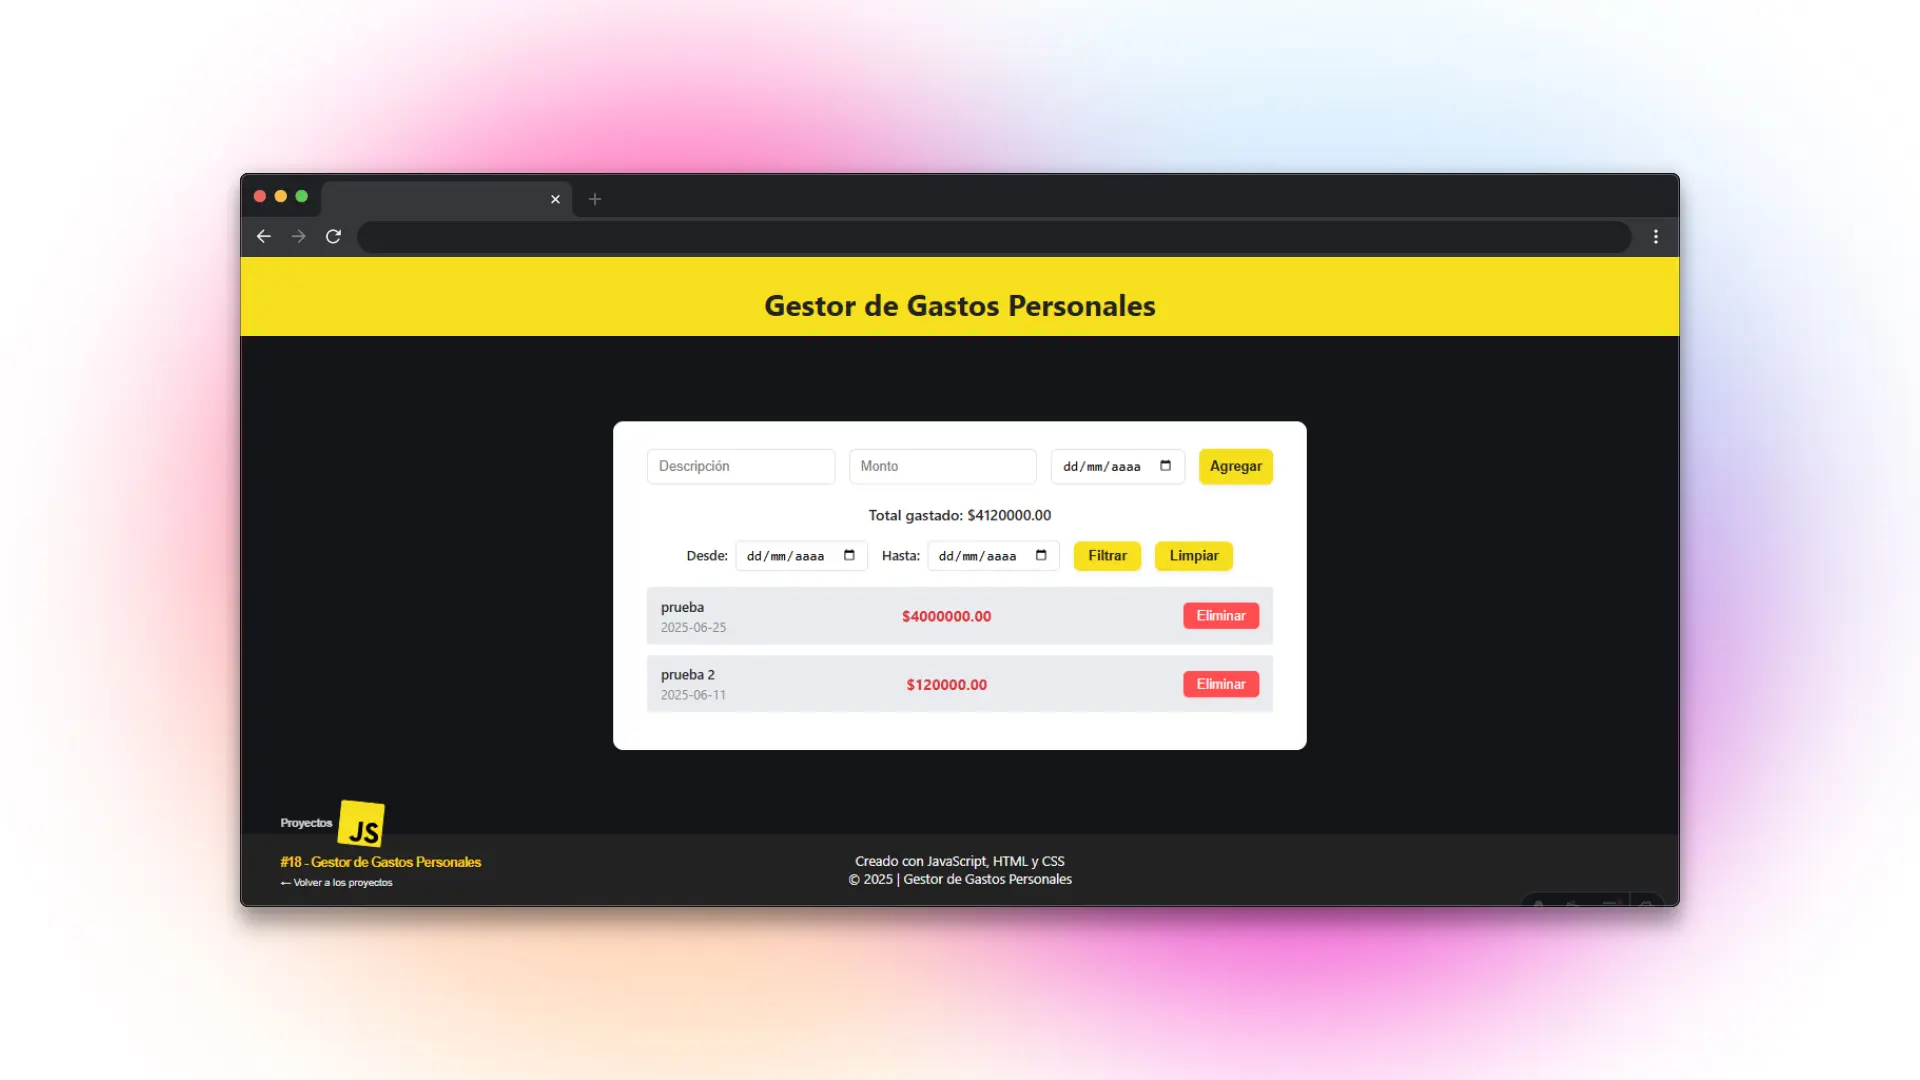
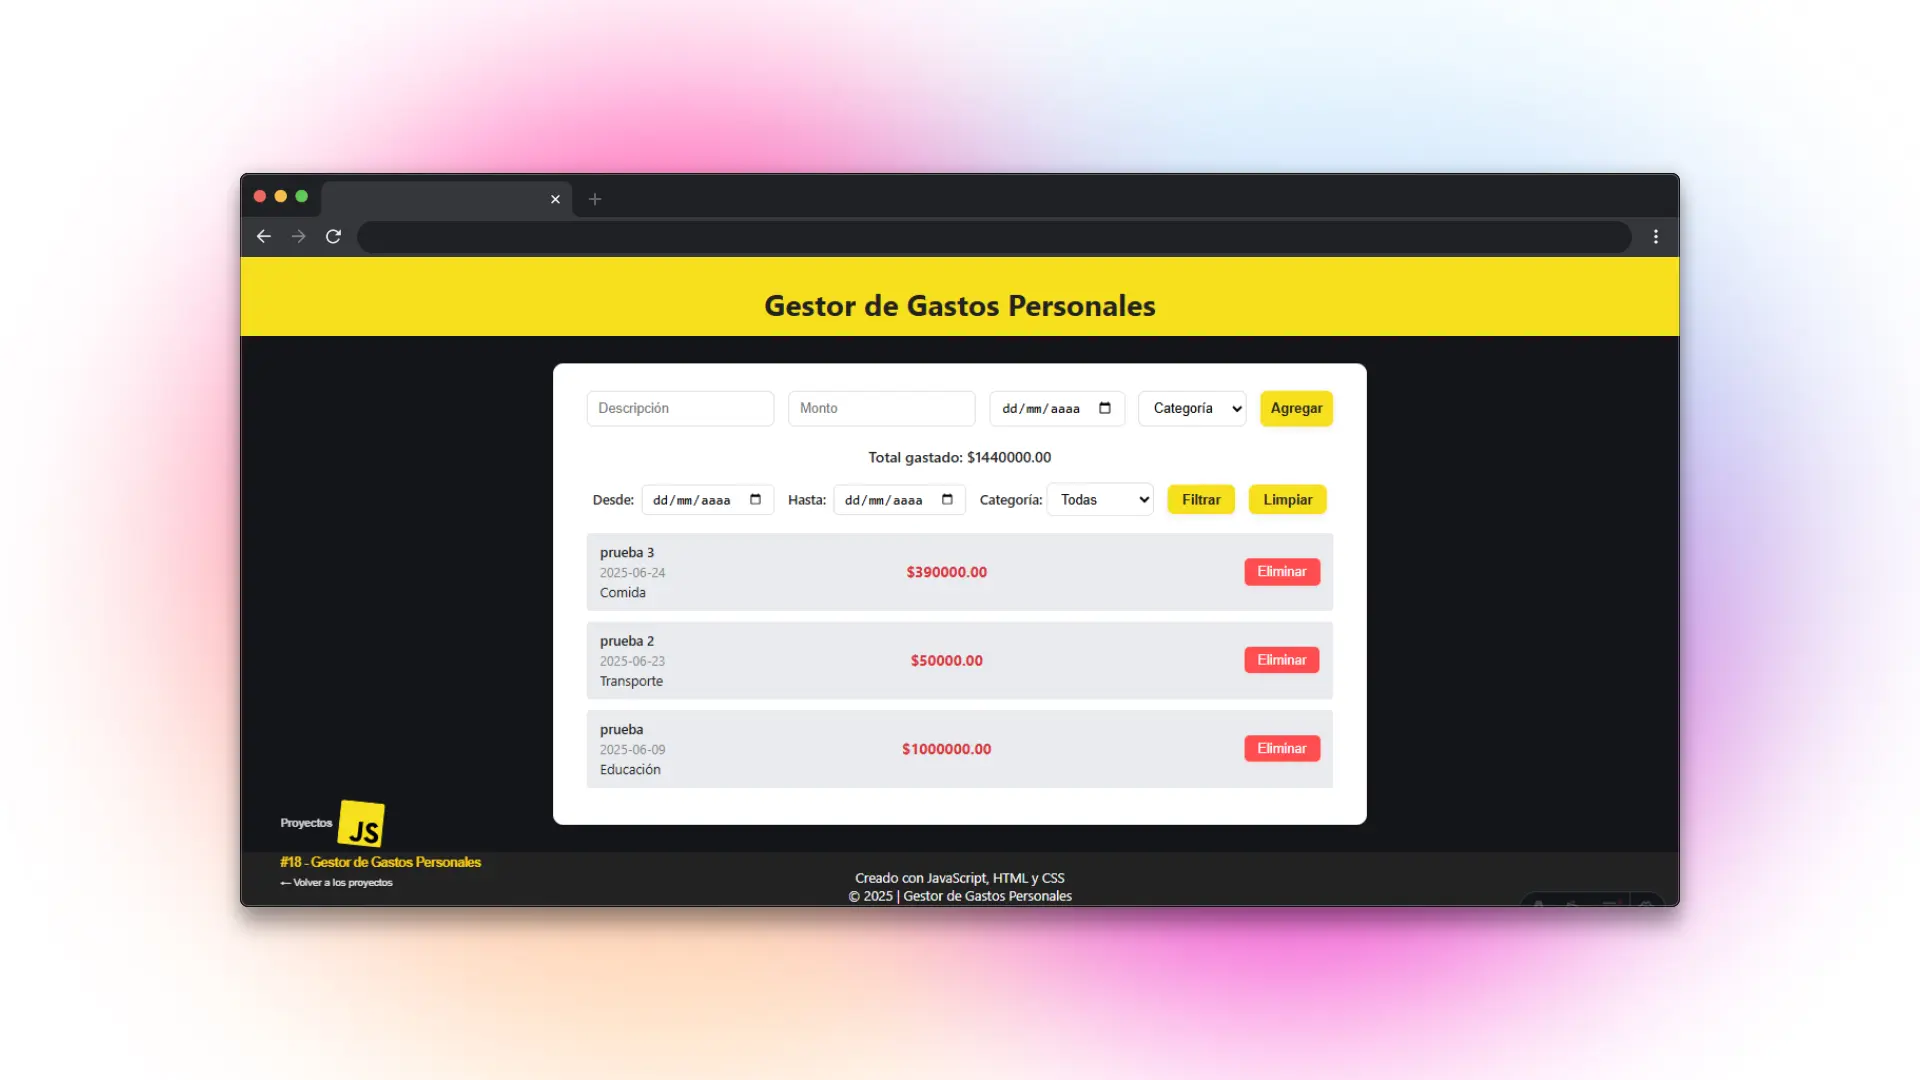
feat(expense-tracker): add category selection to expense form and filtering options

Changed region(s): [[0.2812, 0.3361, 0.7188, 0.7639], [0.4375, 0.7944, 0.5625, 0.8556], [0.1562, 0.7944, 0.1875, 0.825]]

diff --git a/00-web/public/projects/18-expense-tracker/script.js b/00-web/public/projects/18-expense-tracker/script.js
@@ -9,6 +9,7 @@ const totalAmount = document.getElementById('total-amount');
 let expenses = JSON.parse(localStorage.getItem('expenses') || '[]');
 let filterFrom = '';
 let filterTo = '';
+let filterCategory = '';
 
 function renderExpenses() {
   expenseList.innerHTML = '';
@@ -16,6 +17,7 @@ function renderExpenses() {
   let filtered = expenses.filter(exp => {
     if (filterFrom && exp.date < filterFrom) return false;
     if (filterTo && exp.date > filterTo) return false;
+    if (filterCategory && exp.category !== filterCategory) return false;
     return true;
   });
   filtered.forEach((exp, idx) => {
@@ -26,6 +28,7 @@ function renderExpenses() {
       <div class="expense-info">
         <span class="expense-name">${exp.name}</span>
         <span class="expense-date">${exp.date}</span>
+        <span class="expense-category">${exp.category || ''}</span>
       </div>
       <span class="expense-amount">$${parseFloat(exp.amount).toFixed(2)}</span>
       <button class="delete-btn">Eliminar</button>
@@ -42,28 +45,32 @@ function deleteExpense(idx) {
   renderExpenses();
 }
 
-expenseForm.onsubmit = (e) => {
-  e.preventDefault();
-  const name = expenseName.value.trim();
-  const amount = expenseAmount.value;
-  const date = expenseDate.value;
-  if (!name || !amount || !date) return;
-  expenses.push({ name, amount, date });
-  localStorage.setItem('expenses', JSON.stringify(expenses));
-  expenseForm.reset();
-  renderExpenses();
-};
-
 document.getElementById('filter-btn').onclick = () => {
   filterFrom = document.getElementById('filter-from').value;
   filterTo = document.getElementById('filter-to').value;
+  filterCategory = document.getElementById('filter-category').value;
   renderExpenses();
 };
 document.getElementById('clear-filter-btn').onclick = () => {
   filterFrom = '';
   filterTo = '';
+  filterCategory = '';
   document.getElementById('filter-from').value = '';
   document.getElementById('filter-to').value = '';
+  document.getElementById('filter-category').value = '';
+  renderExpenses();
+};
+
+expenseForm.onsubmit = (e) => {
+  e.preventDefault();
+  const name = expenseName.value.trim();
+  const amount = expenseAmount.value;
+  const date = expenseDate.value;
+  const category = document.getElementById('expense-category').value;
+  if (!name || !amount || !date || !category) return;
+  expenses.push({ name, amount, date, category });
+  localStorage.setItem('expenses', JSON.stringify(expenses));
+  expenseForm.reset();
   renderExpenses();
 };
 

diff --git a/18-expense-tracker/script.js b/18-expense-tracker/script.js
@@ -9,6 +9,7 @@ const totalAmount = document.getElementById('total-amount');
 let expenses = JSON.parse(localStorage.getItem('expenses') || '[]');
 let filterFrom = '';
 let filterTo = '';
+let filterCategory = '';
 
 function renderExpenses() {
   expenseList.innerHTML = '';
@@ -16,6 +17,7 @@ function renderExpenses() {
   let filtered = expenses.filter(exp => {
     if (filterFrom && exp.date < filterFrom) return false;
     if (filterTo && exp.date > filterTo) return false;
+    if (filterCategory && exp.category !== filterCategory) return false;
     return true;
   });
   filtered.forEach((exp, idx) => {
@@ -26,6 +28,7 @@ function renderExpenses() {
       <div class="expense-info">
         <span class="expense-name">${exp.name}</span>
         <span class="expense-date">${exp.date}</span>
+        <span class="expense-category">${exp.category || ''}</span>
       </div>
       <span class="expense-amount">$${parseFloat(exp.amount).toFixed(2)}</span>
       <button class="delete-btn">Eliminar</button>
@@ -42,28 +45,32 @@ function deleteExpense(idx) {
   renderExpenses();
 }
 
-expenseForm.onsubmit = (e) => {
-  e.preventDefault();
-  const name = expenseName.value.trim();
-  const amount = expenseAmount.value;
-  const date = expenseDate.value;
-  if (!name || !amount || !date) return;
-  expenses.push({ name, amount, date });
-  localStorage.setItem('expenses', JSON.stringify(expenses));
-  expenseForm.reset();
-  renderExpenses();
-};
-
 document.getElementById('filter-btn').onclick = () => {
   filterFrom = document.getElementById('filter-from').value;
   filterTo = document.getElementById('filter-to').value;
+  filterCategory = document.getElementById('filter-category').value;
   renderExpenses();
 };
 document.getElementById('clear-filter-btn').onclick = () => {
   filterFrom = '';
   filterTo = '';
+  filterCategory = '';
   document.getElementById('filter-from').value = '';
   document.getElementById('filter-to').value = '';
+  document.getElementById('filter-category').value = '';
+  renderExpenses();
+};
+
+expenseForm.onsubmit = (e) => {
+  e.preventDefault();
+  const name = expenseName.value.trim();
+  const amount = expenseAmount.value;
+  const date = expenseDate.value;
+  const category = document.getElementById('expense-category').value;
+  if (!name || !amount || !date || !category) return;
+  expenses.push({ name, amount, date, category });
+  localStorage.setItem('expenses', JSON.stringify(expenses));
+  expenseForm.reset();
   renderExpenses();
 };
 

diff --git a/00-web/public/projects/18-expense-tracker/index.html b/00-web/public/projects/18-expense-tracker/index.html
@@ -17,6 +17,15 @@
         <input type="text" id="expense-name" placeholder="Descripción" required>
         <input type="number" id="expense-amount" placeholder="Monto" min="0.01" step="0.01" required>
         <input type="date" id="expense-date" required>
+        <select id="expense-category" required>
+          <option value="">Categoría</option>
+          <option value="Comida">Comida</option>
+          <option value="Transporte">Transporte</option>
+          <option value="Ocio">Ocio</option>
+          <option value="Salud">Salud</option>
+          <option value="Educación">Educación</option>
+          <option value="Otros">Otros</option>
+        </select>
         <button type="submit">Agregar</button>
       </form>
       <div class="summary">
@@ -25,6 +34,17 @@
       <div class="filter-bar">
         <label>Desde: <input type="date" id="filter-from"></label>
         <label>Hasta: <input type="date" id="filter-to"></label>
+        <label>Categoría:
+          <select id="filter-category">
+            <option value="">Todas</option>
+            <option value="Comida">Comida</option>
+            <option value="Transporte">Transporte</option>
+            <option value="Ocio">Ocio</option>
+            <option value="Salud">Salud</option>
+            <option value="Educación">Educación</option>
+            <option value="Otros">Otros</option>
+          </select>
+        </label>
         <button type="button" id="filter-btn">Filtrar</button>
         <button type="button" id="clear-filter-btn">Limpiar</button>
       </div>

diff --git a/18-expense-tracker/index.html b/18-expense-tracker/index.html
@@ -17,6 +17,15 @@
         <input type="text" id="expense-name" placeholder="Descripción" required>
         <input type="number" id="expense-amount" placeholder="Monto" min="0.01" step="0.01" required>
         <input type="date" id="expense-date" required>
+        <select id="expense-category" required>
+          <option value="">Categoría</option>
+          <option value="Comida">Comida</option>
+          <option value="Transporte">Transporte</option>
+          <option value="Ocio">Ocio</option>
+          <option value="Salud">Salud</option>
+          <option value="Educación">Educación</option>
+          <option value="Otros">Otros</option>
+        </select>
         <button type="submit">Agregar</button>
       </form>
       <div class="summary">
@@ -25,6 +34,17 @@
       <div class="filter-bar">
         <label>Desde: <input type="date" id="filter-from"></label>
         <label>Hasta: <input type="date" id="filter-to"></label>
+        <label>Categoría:
+          <select id="filter-category">
+            <option value="">Todas</option>
+            <option value="Comida">Comida</option>
+            <option value="Transporte">Transporte</option>
+            <option value="Ocio">Ocio</option>
+            <option value="Salud">Salud</option>
+            <option value="Educación">Educación</option>
+            <option value="Otros">Otros</option>
+          </select>
+        </label>
         <button type="button" id="filter-btn">Filtrar</button>
         <button type="button" id="clear-filter-btn">Limpiar</button>
       </div>

diff --git a/00-web/public/projects/18-expense-tracker/style.css b/00-web/public/projects/18-expense-tracker/style.css
@@ -173,6 +173,17 @@ footer {
 .filter-bar button:hover {
   background: #e6d017;
 }
+#expense-form select, .filter-bar select {
+  padding: 0.6rem 0.8rem;
+  border-radius: 8px;
+  border: 1px solid #e0e0e0;
+  font-size: 1rem;
+  background: #fff;
+}
+#expense-form select:focus, .filter-bar select:focus {
+  border: 1.5px solid var(--primary-color);
+  outline: none;
+}
 @media (max-width: 600px) {
   .expense-container {
     padding: 1rem;

diff --git a/18-expense-tracker/style.css b/18-expense-tracker/style.css
@@ -173,6 +173,17 @@ footer {
 .filter-bar button:hover {
   background: #e6d017;
 }
+#expense-form select, .filter-bar select {
+  padding: 0.6rem 0.8rem;
+  border-radius: 8px;
+  border: 1px solid #e0e0e0;
+  font-size: 1rem;
+  background: #fff;
+}
+#expense-form select:focus, .filter-bar select:focus {
+  border: 1.5px solid var(--primary-color);
+  outline: none;
+}
 @media (max-width: 600px) {
   .expense-container {
     padding: 1rem;
